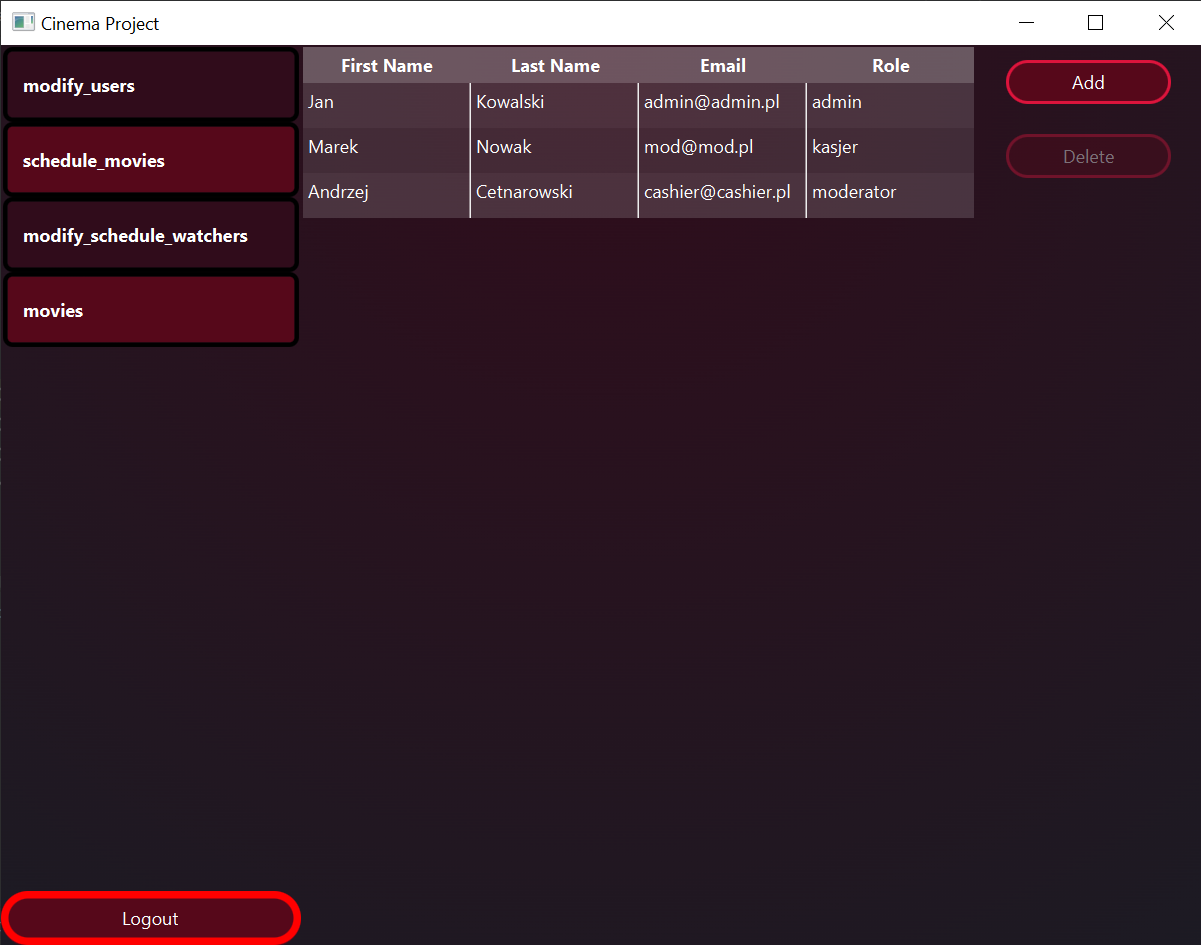
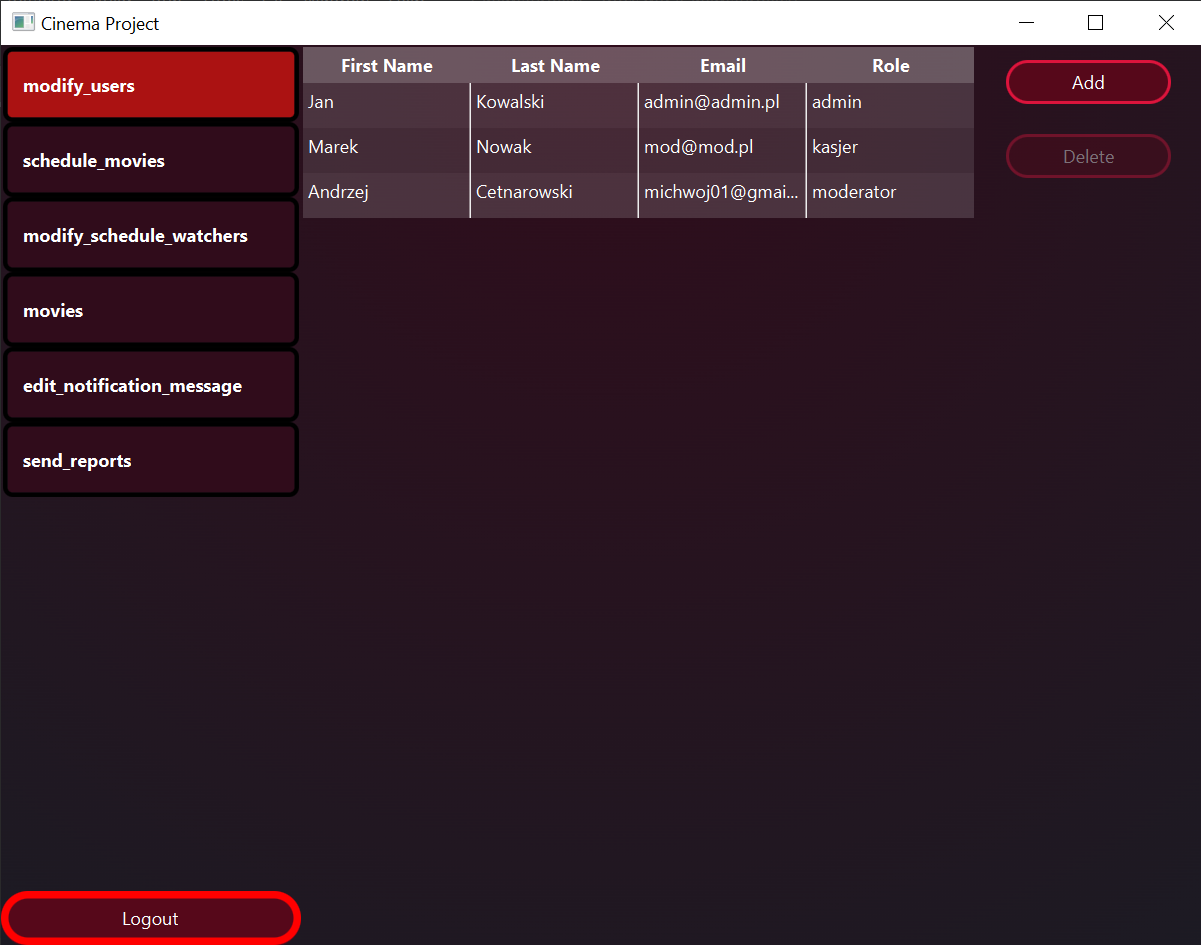
Finish

Changed region(s): [[0.0, 0.2762, 0.2465, 0.5524], [0.0, 0.0307, 0.2465, 0.2148], [0.5237, 0.1841, 0.6778, 0.2148]]

diff --git a/app/src/main/java/pl/edu/agh/ii/cinemaProject/controller/MovieController.java b/app/src/main/java/pl/edu/agh/ii/cinemaProject/controller/MovieController.java
@@ -38,6 +38,7 @@ public class MovieController {
     private final String DELETE_BUTTON_TEXT = "Delete";
     private final String RECOMMENDED_ADD_BUTTON_TEXT = "Add to recommended";
     private final String RECOMMENDED_REMOVE_BUTTON_TEXT = "Remove from recommended";
+
     @FXML
     private HBox hBoxFilters;
     @FXML
@@ -50,12 +51,14 @@ public class MovieController {
     private TextField name;
     @FXML
     private Pagination pagination;
+
     @Autowired
     private MovieService movieService;
     @Autowired
     private PermissionService permissionService;
     @Autowired
     private RecommendationService recommendationService;
+
     private List<Recommendation> recommendedMovies = new ArrayList<>();
     private Optional<LoginUser> loginUser = Optional.empty();
     private Optional<CheckBox> isRecommended = Optional.empty();
@@ -72,7 +75,9 @@ public class MovieController {
 
     @FXML
     void initialize() {
-        loginUser.ifPresent(user -> permissionService.getPermissionsForUser(user).any(permission -> permission.name.equals("RECOMMENDATION")).subscribe(hasPermission -> {
+        loginUser.ifPresent(user ->
+                permissionService.getPermissionsForUser(user).any(permission ->
+                        permission.name.equals("RECOMMENDATION")).subscribe(hasPermission -> {
                     if (hasPermission) {
                         this.isRecommended = Optional.of(new CheckBox("Recommended"));
                         this.isRecommended.get().setSelected(false);

diff --git a/app/src/main/java/pl/edu/agh/ii/cinemaProject/service/EmailServiceImpl.java b/app/src/main/java/pl/edu/agh/ii/cinemaProject/service/EmailServiceImpl.java
@@ -17,6 +17,7 @@ public class EmailServiceImpl {
     private static final String FROM_CASHIER_NOTIFICATION = "notify+recommendations@" + DOMAIN;
     private static final String FROM_REPORT_DELIVERY = "send+reports@" + DOMAIN;
     private static final String FROM_FIRED_PERSON = "notify+firedperson@" + DOMAIN;
+
     @Autowired
     private JavaMailSender emailSender;
 
@@ -27,7 +28,7 @@ public class EmailServiceImpl {
 
     @SneakyThrows
     public void sendReportsToManagers(List<String> managersEmails, File file) {
-        managersEmails.forEach(email -> sendReport(file));
+        managersEmails.forEach(email -> sendReport(file, email));
     }
 
     public void sendNotificationAboutFired(String email, LoginUser firedPerson) {
@@ -38,12 +39,12 @@ public class EmailServiceImpl {
     }
 
     @SneakyThrows
-    private void sendReport(File file) {
+    private void sendReport(File file, String to) {
         MimeMessage mimeMessage = emailSender.createMimeMessage();
         MimeMessageHelper helper = new MimeMessageHelper(mimeMessage, true);
-        helper.addAttachment("snap.jpg", file);
+        helper.addAttachment("report.png", file);
         helper.setFrom(EmailServiceImpl.FROM_REPORT_DELIVERY);
-        helper.setTo("michwoj01@gmail.com");
+        helper.setTo(to);
         helper.setSubject("Manager Report");
         helper.setText("Report for last few days", false);
         emailSender.send(mimeMessage);

diff --git a/app/src/main/java/pl/edu/agh/ii/cinemaProject/controller/ScheduleMoviesController.java b/app/src/main/java/pl/edu/agh/ii/cinemaProject/controller/ScheduleMoviesController.java
@@ -37,6 +37,7 @@ public class ScheduleMoviesController {
     private TableColumn<Schedule, LocalDateTime> scheduleDate;
     @FXML
     private Button deleteButton;
+
     @Autowired
     private ScheduleService scheduleService;
     @Autowired
@@ -68,7 +69,6 @@ public class ScheduleMoviesController {
         }
     };
 
-
     public static URL getFXML() {
         return ScheduleMoviesController.class.getResource("/fxml/ScheduleMoviePage.fxml");
     }
@@ -97,7 +97,7 @@ public class ScheduleMoviesController {
     }
 
     public void handleAddUserAction(ActionEvent actionEvent) {
-        var hall= cinemaHallService.getCinemaHallById(1).block();
+        var hall = cinemaHallService.getCinemaHallById(1).block();
         var newSchedule = new Schedule();
         newSchedule.setMovie_id(1);
         newSchedule.setStart_date(LocalDateTime.of(2023, 1, 31, 12, 0, 0));

diff --git a/app/src/main/java/pl/edu/agh/ii/cinemaProject/db/MovieDao.java b/app/src/main/java/pl/edu/agh/ii/cinemaProject/db/MovieDao.java
@@ -39,10 +39,10 @@ public interface MovieDao extends ReactiveCrudRepository<Movie, Long> {
             SELECT
                 count(*)
             FROM
-                MOVIE 
-            WHERE 
-                (duration between :minDuration and :maxDuration) 
-            and name like :nameContains 
+                MOVIE
+            WHERE
+                (duration between :minDuration and :maxDuration)
+            and name like :nameContains
             and case when :isRecommended then MOVIE.id in (select mr.movie_id from RECOMMENDATION mr) else :startIndex=:maxItemsPerPage end
             """)
     Mono<Integer> getCountWithFilters(int minDuration, int maxDuration, String nameContains, Boolean isRecommended, int startIndex, int maxItemsPerPage);

diff --git a/app/src/main/java/pl/edu/agh/ii/cinemaProject/controller/ModifyScheduleWatchersController.java b/app/src/main/java/pl/edu/agh/ii/cinemaProject/controller/ModifyScheduleWatchersController.java
@@ -56,7 +56,7 @@ public class ModifyScheduleWatchersController {
         movieImage.setCellValueFactory(cellData -> {
             final ImageView imageview = new ImageView();
             movieService.getMovieById(cellData.getValue().getMovie_id()).subscribe((movie) -> Platform.runLater(() -> {
-                var image = new Image(movie.getCover_url(), 100, 0, true, true);
+                var image = new Image(movie.getCover_url(), 50, 0, true, true);
                 imageview.setImage(image);
             }));
             return new SimpleObjectProperty<>(imageview);

diff --git a/app/src/main/java/pl/edu/agh/ii/cinemaProject/controller/ReportsController.java b/app/src/main/java/pl/edu/agh/ii/cinemaProject/controller/ReportsController.java
@@ -76,12 +76,12 @@ public class ReportsController {
         graphics.drawImage(bufferedImage, 0, 0, null);
         File file;
         try {
-            file = File.createTempFile("snap", ".jpg");
+            file = File.createTempFile("report", ".png");
         } catch (IOException e) {
             throw new RuntimeException(e);
         }
         try {
-            ImageIO.write(imageRGB, "jpg", file);
+            ImageIO.write(imageRGB, "png", file);
         } catch (IOException e) {
             throw new RuntimeException(e);
         }

diff --git a/app/src/main/java/pl/edu/agh/ii/cinemaProject/db/TicketDao.java b/app/src/main/java/pl/edu/agh/ii/cinemaProject/db/TicketDao.java
@@ -14,8 +14,8 @@ public interface TicketDao extends ReactiveCrudRepository<Ticket, Long> {
     Flux<Ticket> getTakenSeats(long scheduleId);
 
     @Query("""
-            SELECT COUNT(*) FROM ticket 
-            inner join schedule s on s.id = ticket.schedule_id 
+            SELECT COUNT(*) FROM ticket
+            inner join schedule s on s.id = ticket.schedule_id
             WHERE s.id = :scheduleId
             """)
     Mono<Integer> countTakenSeats(long scheduleId);

diff --git a/app/src/main/java/pl/edu/agh/ii/cinemaProject/enums/PageEnum.java b/app/src/main/java/pl/edu/agh/ii/cinemaProject/enums/PageEnum.java
@@ -14,7 +14,6 @@ public enum PageEnum {
     MODIFY_SCHEDULE_WATCHERS("modify_schedule_watchers", ModifyScheduleWatchersController.getFXML()),
     MOVIES("movies", MovieController.getFXML()),
     EDIT_NOTIFICATION_MESSAGE("edit_notification_message", NotificationController.getFXML()),
-    ERROR("error", ErrorController.getFXML()),
     SEND_REPORTS("send_reports", ReportsController.getFXML());
     private final String name;
     private final URL url;

diff --git a/app/src/main/java/pl/edu/agh/ii/cinemaProject/controller/NotificationController.java b/app/src/main/java/pl/edu/agh/ii/cinemaProject/controller/NotificationController.java
@@ -17,8 +17,10 @@ import java.util.Optional;
 public class NotificationController {
     @FXML
     private TextArea messageTextArea;
+
     @Autowired
     private NotificationService notificationService;
+
     private Optional<Notification> maybeNotification = Optional.empty();
 
     public static URL getFXML() {

diff --git a/app/src/main/java/pl/edu/agh/ii/cinemaProject/service/LoginService.java b/app/src/main/java/pl/edu/agh/ii/cinemaProject/service/LoginService.java
@@ -14,6 +14,7 @@ import java.util.regex.Pattern;
 @Service
 public class LoginService {
     private final Pattern emailPattern = Pattern.compile("^[A-Z0-9._%+-]+@[A-Z0-9.-]+\\.[A-Z]{2,6}$", Pattern.CASE_INSENSITIVE);
+
     @Autowired
     private UserDao userDao;
 

diff --git a/app/src/main/java/pl/edu/agh/ii/cinemaProject/controller/MainPageController.java b/app/src/main/java/pl/edu/agh/ii/cinemaProject/controller/MainPageController.java
@@ -22,6 +22,7 @@ public class MainPageController implements ApplicationListener<LoginEvent> {
     public ListView<String> categoriesListView;
     @FXML
     public BorderPane mainPane;
+
     @Autowired
     private PermissionService permissionService;
 

diff --git a/app/src/main/java/pl/edu/agh/ii/cinemaProject/controller/SeatPageController.java b/app/src/main/java/pl/edu/agh/ii/cinemaProject/controller/SeatPageController.java
@@ -26,6 +26,7 @@ public class SeatPageController implements ApplicationListener<SeatsEvent> {
     public VBox seatBox;
     @FXML
     private Button buyButton;
+
     @Autowired
     private TicketService ticketService;
     @Autowired
